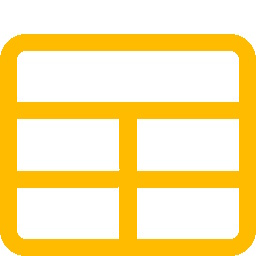
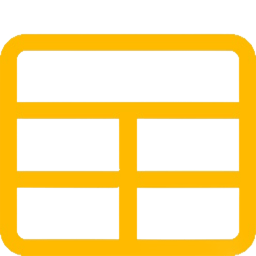
New hover in buttons

diff --git a/style.css b/style.css
@@ -88,7 +88,7 @@ nav {
   margin-top: 30px;
   display: flex;
   justify-content: center;
-  gap: 5px;
+  gap: 10px;
 }
 
 .bottons button{
@@ -103,10 +103,39 @@ nav {
   justify-content: center;
   flex-direction: column;
   align-items: center;
+  transition: 0.3s;
+  border: 2px solid transparent;
   gap: 5px;
 }
 
-.bottons button img{
+.button1 img{
+  width:40px;
+}
+.button2 img{
+  width: 40px;
+}
+.button3 img{
+  width: 60px;
+}
+.button4 img{
+  width:60px;
+}
+.button5 img{
+  width: 50px;
+}
+.button6 img{
+  width: 50px;
+}
+.button7 img{
+  width:50px;
+}
+.button8 img{
+  width: 40px;
+}
+.button9 img{
+  width: 50px;
+}
+.button10 img{
   width: 50px;
 }
 
@@ -117,6 +146,15 @@ nav {
 .bottons button:hover img.img-normal{
   display: none;
 }
+
+.bottons button:hover{
+border-color: #ffbb00;
+  transition: 0.3s;
+}
+.bottons button:hover p{
+  color: #ffbb00;
+}
+
 
 .bottons button:hover img.img-hover{
   display: block;

diff --git a/index.html b/index.html
@@ -47,52 +47,52 @@
       <div class="bottons">
         <button class="button1">
           <img class="img-normal" src="images/imagesbutton/imagesnormal/alltable.png" alt="" />
-          <img class="img-hover" src="images/imagesbutton/imagesnormal/gabinete.png" alt="" />
+          <img class="img-hover" src="images/imagesbutton/imageshover/alltable (1).png" alt="" />
           <p>TODOS</p>
         </button>
         <button class="button2">
-          <img class="img-normal" src="images/imagesbutton/imagesnormal/cpu.jpg" alt="" />
-          <img class="img-hover" src="images/imagesbutton/imageshover/cpu.jpg" alt="" />
+          <img class="img-normal" src="images/imagesbutton/imagesnormal/cpu.png" alt="" />
+          <img class="img-hover" src="images/imagesbutton/imageshover/cpu (1).png" alt="" />
           <p>PROCESSADORES</p>
         </button>
         <button class="button3">
-          <img class="img-normal" src="images/imagesbutton/imagesnormal/placa de video.jpg" alt="" />
-          <img class="img-hover" src="images/imagesbutton/imageshover/placa de video.jpg" alt="" />
+          <img class="img-normal" src="images/imagesbutton/imagesnormal/placa de video.png" alt="" />
+          <img class="img-hover" src="images/imagesbutton/imageshover/placa de video (1).png" alt="" />
           <p>PLACA DE VÍDEO</p>
         </button>
         <button class="button4">
-          <img class="img-normal" src="images/imagesbutton/imagesnormal/placa mae.jpg" alt="" />
-          <img class="img-hover" src="images/imagesbutton/imageshover/placa mae.jpg" alt="" />
+          <img class="img-normal" src="images/imagesbutton/imagesnormal/placa mae.png" alt="" />
+          <img class="img-hover" src="images/imagesbutton/imageshover/placa mae (1).png" alt="" />
           <p>PLACA MÃE</p>
         </button>
         <button class="button5">
-          <img class="img-normal" src="images/imagesbutton/imagesnormal/memorias.jpg" alt="" />
-          <img class="img-hover" src="images/imagesbutton/imageshover/memorias.jpg" alt="" />
+          <img class="img-normal" src="images/imagesbutton/imagesnormal/memorias.png" alt="" />
+          <img class="img-hover" src="images/imagesbutton/imageshover/memorias (1).png" alt="" />
           <p>MEMÓRIAS</p>
         </button>
         <button class="button6">
-          <img class="img-normal" src="images/imagesbutton/rosa-comum.png" alt="" />
-          <img class="img-hover" src="images/imagesbutton/ssd.jpg" alt="" />
+          <img class="img-normal" src="images/imagesbutton/imagesnormal/ssd.png" alt="" />
+          <img class="img-hover" src="images/imagesbutton/imageshover/ssd (1).png" alt="" />
           <p>ARMAZENAMENTO</p>
         </button>
         <button class="button7">
-          <img class="img-normal" src="images/imagesbutton/rosa-comum.png" alt="" />
-          <img class="img-hover" src="images/imagesbutton/fonte.jpg" alt="" />
+          <img class="img-normal" src="images/imagesbutton/imagesnormal/fonte.png" alt="" />
+          <img class="img-hover" src="images/imagesbutton/imageshover/fonte (1).png" alt="" />
           <p>FONTES</p>
         </button>
         <button class="button8">
-          <img class="img-normal" src="images/imagesbutton/rosa-comum.png" alt="" />
-          <img class="img-hover" src="images/imagesbutton/gabinete.jpg" alt="" />
+          <img class="img-normal" src="images/imagesbutton/imagesnormal/gabinete.png" alt="" />
+          <img class="img-hover" src="images/imagesbutton/imageshover/gabinete (1).png" alt="" />
           <p>GABINETES</p>
         </button>
         <button class="button9">
-          <img class="img-normal" src="images/imagesbutton/rosa-comum.png" alt="" />
-          <img class="img-hover" src="images/imagesbutton/monitor.jpg" alt="" />
+          <img class="img-normal" src="images/imagesbutton/imagesnormal/monitor.png" alt="" />
+          <img class="img-hover" src="images/imagesbutton/imageshover/monitor (1).png" alt="" />
           <p>MONITORES</p>
         </button>
         <button class="button10">
-          <img class="img-normal" src="images/imagesbutton/rosa-comum.png" alt="" />
-          <img class="img-hover" src="images/imagesbutton/perifericos.jpg" alt="" />
+          <img class="img-normal" src="images/imagesbutton/imagesnormal/perifericos.png" alt="" />
+          <img class="img-hover" src="images/imagesbutton/imageshover/perifericos (1).png" alt="" />
           <p>PERIFÉRICOS</p>
         </button>
       </div>